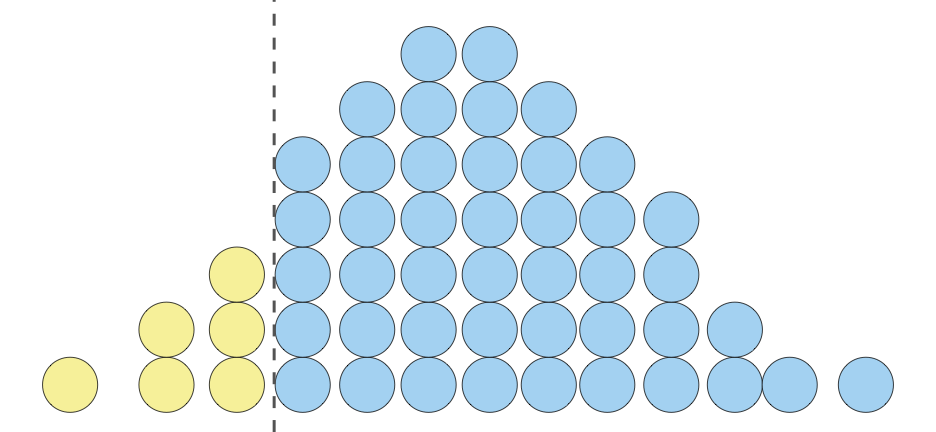
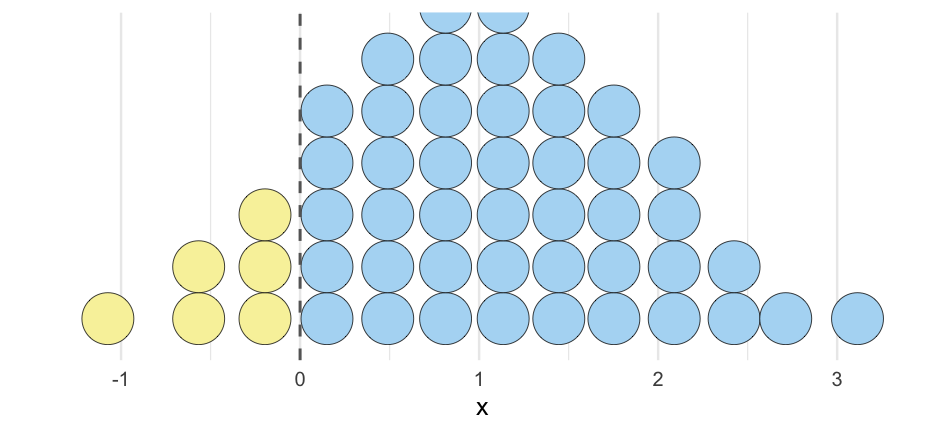
Minor w7p1 slide updates

diff --git a/slides/w7p1.html b/slides/w7p1.html
@@ -24,7 +24,26 @@ class: center, middle, inverse, title-slide
 
 
 # Agenda 
-* 
+* Common ways of visualizing uncertainty
+  + And how to implement them with {ggplot2}
+
+* Framing uncertainty as relative frequencies
+  + Discrete probabilities
+  + Non-discrete probabilities
+    + Understanding AUC calculations
+
+* Understanding standard errors
+  + Non-standard ways of visualizing SEs
+
+* HOPs (briefly)
+  + Also bootstrapping
+
+---
+# Learning objectives
+1. Understand there are lots of different ways to visualize uncertainty, and the best method may often be non-standard.
+
+2. Understand how to implement basic methods, and the resources available to you to implement more advanced methods
+
 
 ---
 # The primary problem
@@ -591,7 +610,8 @@ ggplot(discretized, aes(x)) +
   scale_fill_manual(
     values = c("#b1daf4", "#f8f1a9"),
     guide = "none") +
-  theme_void()
+  scale_y_continuous(name = "", 
+                     breaks = NULL)
 ```
 
 ![](w7p1_files/figure-html/dotplot5-1.png)&lt;!-- --&gt;
@@ -4968,7 +4988,7 @@ ggplot(tidied_m, aes(estimate, term)) +
 
 ---
 class:inverse center middle
-# HOPS
+# HOPs
 ### Hypothetical Outcome Plots (and related plots)
 
 ---
@@ -5472,7 +5492,7 @@ ggplot(mtcars, aes(disp, mpg)) +
 ![](w7p1_files/figure-html/bootstrap2d-eval-1.png)&lt;!-- --&gt;
 
 ---
-# Hops
+# HOPs
 Hops animate the process, so you can't ever really settle on one "truth"
 
 
